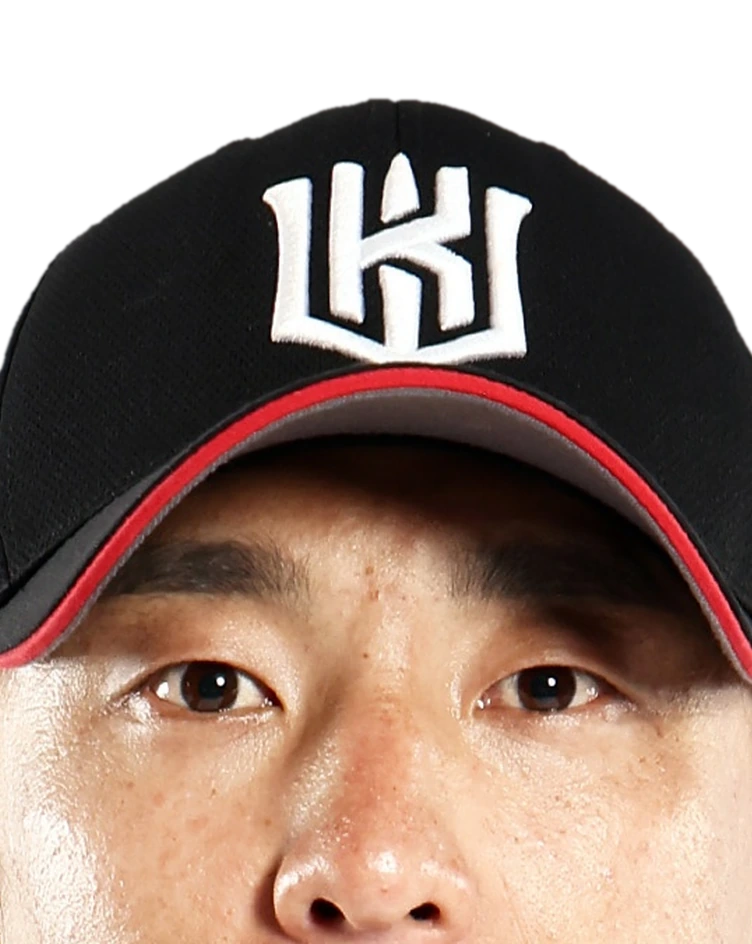
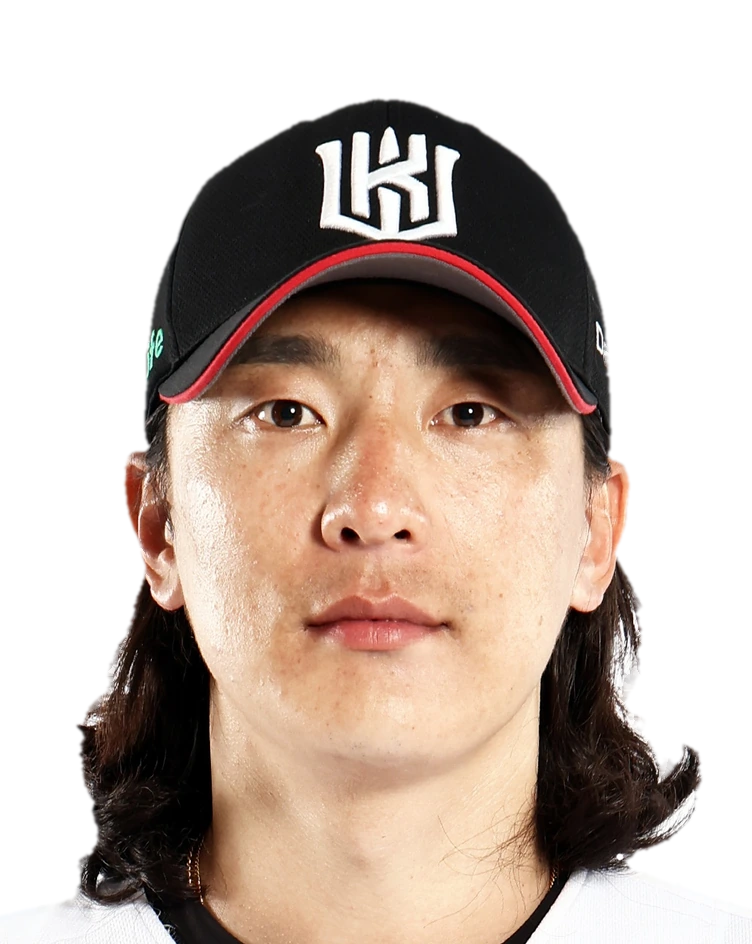
fix(hero): 얼굴 과대 히어로샷 26명 얼굴폭 상한 정규화
정사각(1500²) daum 소스는 silhouette 어깨선 검출이 목/턱 부근에서
오검출되어 crown→어깨 span이 과소 → scale 과대 → 눈·모자만 크롭되는
"얼굴만 크게" 히어로가 다수 발생(대부분 KT). 소스는 풀 헤드샷으로 멀쩡.

_place_silhouette에 얼굴폭 상한(SIL_HEAD_W_MAX=0.40) 추가: 확대 후 정수리
밴드 머리 폭이 캔버스 폭*0.40을 넘으면 그만큼 축소. 정상 선수는 이미 상한
아래라 min이 무영향, 과확대분만 정규화되어 어깨가 프레임 안으로 들어옴.

- 얼굴폭 자동 스캔으로 추린 26명 재생성 (정수리밴드 폭 0.6~0.76 → 0.40)
- former legacy-fallback 6명(64004/77318/51003/51058/79402/66706) →
  scale 상한 아래로 내려가 정상 silhouette로 복귀 (manifest 반영:
  silhouette 765→771, legacy_fallback 21→15)
- verify PASS 819/819 bad=0, 정상 765장 무변경

diff --git a/scripts/hero/build-hero.py b/scripts/hero/build-hero.py
@@ -49,6 +49,12 @@ FRAME_MODE = "legacy"
 SIL_TOP = 96              # silhouette: 정수리 위 여백(px) — 프로토 검증값
 SIL_SHOULDER_F = 1.6      # silhouette: 어깨선 판정 = 머리폭의 이 배수
 SIL_SHOULDER_TARGET = 0.80  # silhouette: 어깨선을 캔버스 높이의 이 지점에 앵커
+# 얼굴폭 상한: 정사각(1500²) 프레이밍 소스는 어깨선이 목/턱 부근에서 오검출되어
+# crown→어깨 span이 작게 잡히며 얼굴이 과확대(눈·모자만 크롭)된다. 확대 후 정수리
+# 밴드 머리 폭이 캔버스 폭의 이 비율을 넘지 않도록 scale에 상한을 건다. 정상 선수는
+# 이미 이 값 부근/아래라 min이 무영향, 과확대분(정수리밴드 0.6~0.76)만 여기로 정규화
+# 되어 어깨가 프레임 안으로 들어온다. (fleet 정상 정수리밴드 폭 ≈ 이 값)
+SIL_HEAD_W_MAX = 0.40
 # 과크롭 guard: 클로즈업 원본(머리가 프레임 가득)은 crown→어깨 span이 작아
 # scale이 과도하게 커지며 눈/모자 위주로 잘림. scale이 이 상한을 넘으면
 # silhouette를 포기하고 legacy height-fit(머리 전체 보존)으로 폴백한다.
@@ -111,6 +117,11 @@ def _place_silhouette(cut):
             break
     span = max(1, (shoulder_y if shoulder_y is not None else crown + int(0.62 * Hc)) - crown)
     scale = ((CANVAS_H * SIL_SHOULDER_TARGET) - SIL_TOP) / span
+    # 얼굴폭 상한: 확대 후 머리 폭이 캔버스 폭 * SIL_HEAD_W_MAX를 넘으면 그만큼 축소.
+    # 어깨선 오검출(목/턱)로 span이 과소 → scale 과대 → 눈만 크롭되는 케이스를 막고
+    # 어깨를 프레임 안으로 끌어들인다. 정상 케이스는 이미 상한 아래라 min이 무영향.
+    if head_w > 0:
+        scale = min(scale, (CANVAS_W * SIL_HEAD_W_MAX) / head_w)
     # 과크롭 guard: 어깨 미검출이거나 scale이 상한 초과(클로즈업 원본) → legacy 폴백.
     if shoulder_y is None or scale > SIL_SCALE_CAP:
         big, ox, oy = _place_legacy(cut)
